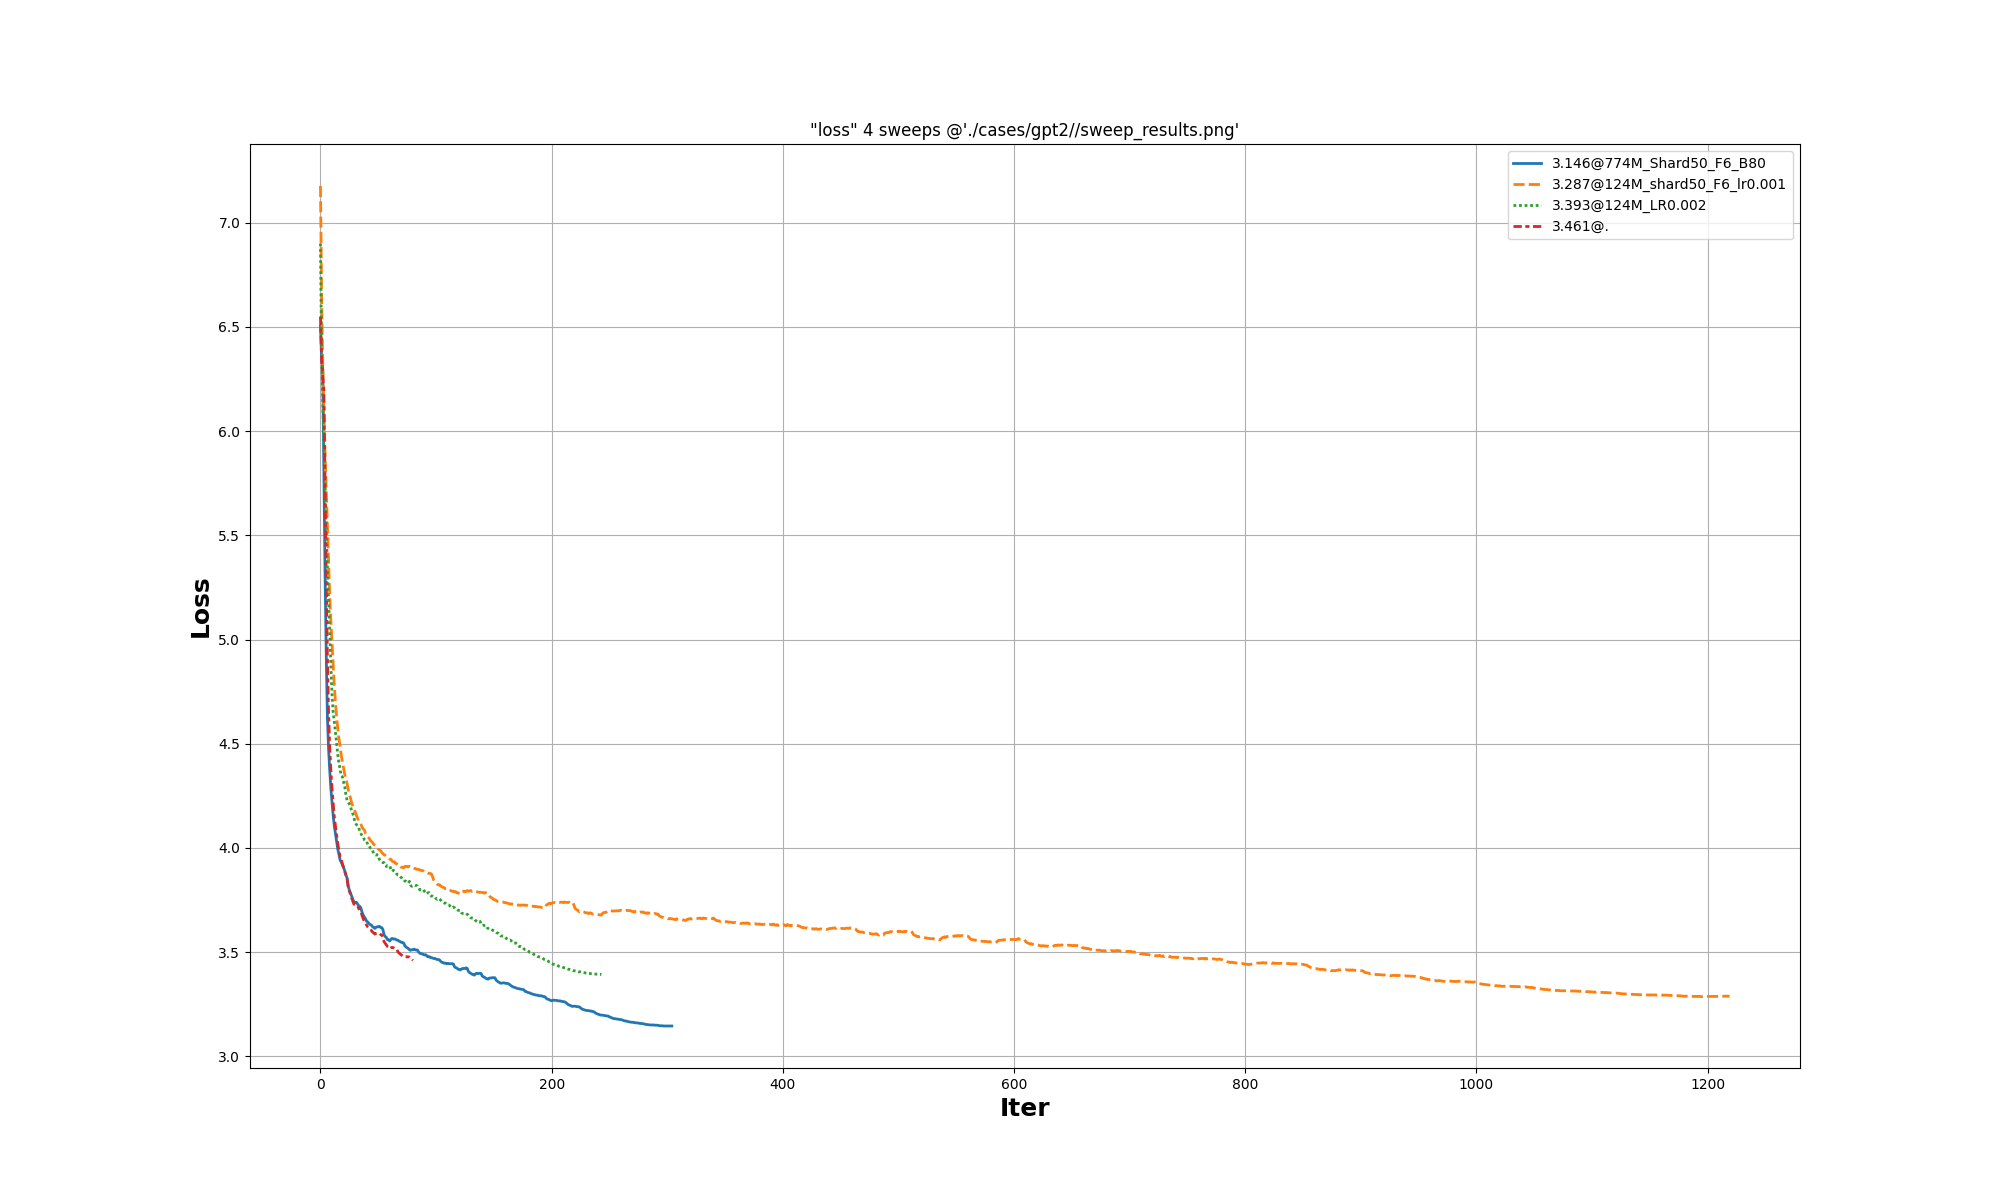
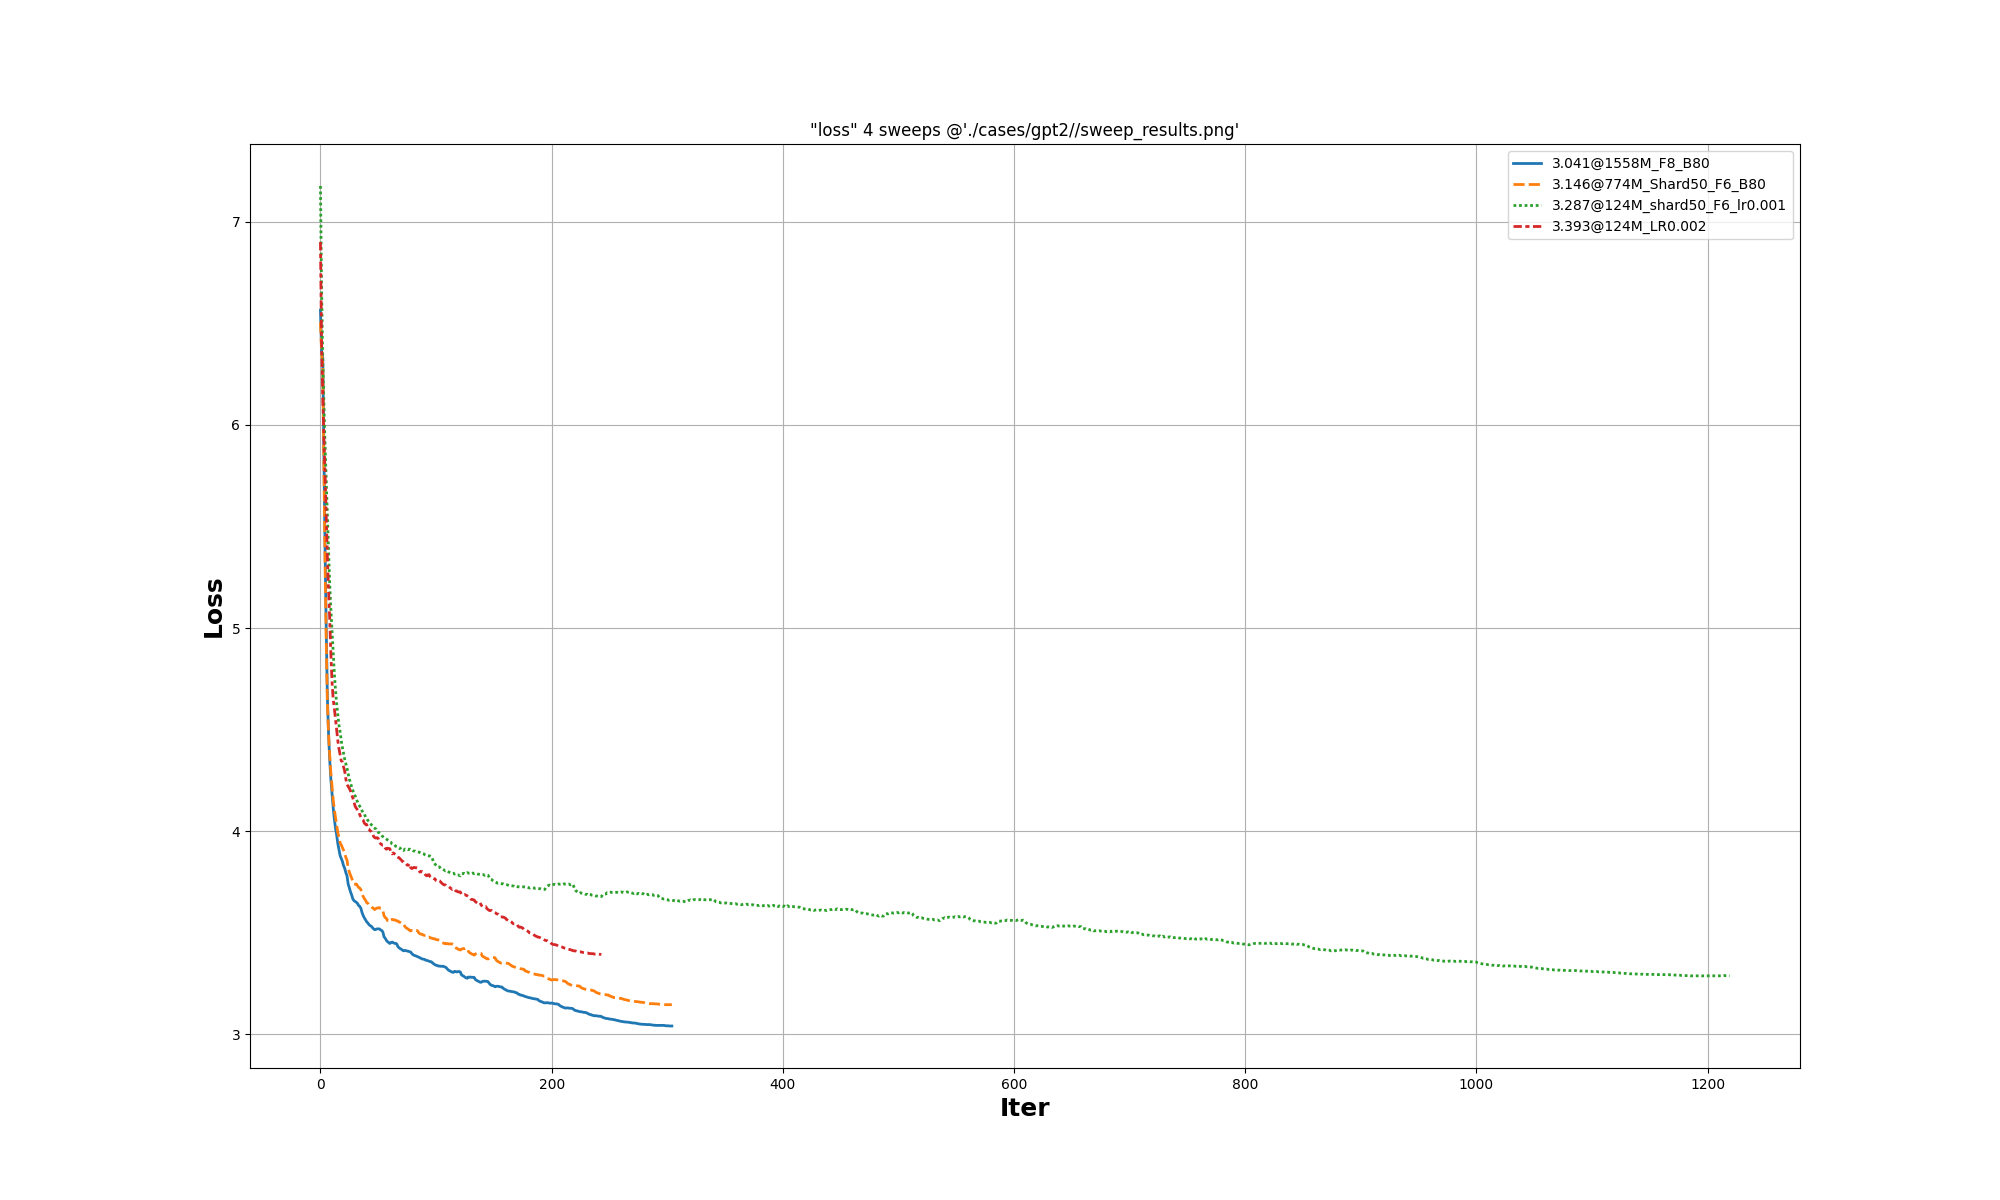
dumpSwitch

diff --git a/src/Utils/GST_util.cpp b/src/Utils/GST_util.cpp
@@ -46,15 +46,16 @@ void _TIME_INFO(const string &info, double fmillis, int flag) {
         _INFO("%02lld:%02lld:%02lld", (long long int)hours, (long long int)minutes, (long long int)seconds);
 }
 
+int SUM::nMostMemItem;
 double SUM::tX = 0.0, SUM::tX1 = 0.0, SUM::tRemater = 0.0;
 size_t SUM::szUpload = 0;
-double SUM::tQKV = 0.0, SUM::tFFN = 0.0, SUM::tUpload = 0.0;
+double SUM::tQKV = 0.0, SUM::tFFN = 0.0, SUM::tUpload = 0.0, SUM::tData = 0.0;
 double SUM::tLoadData = 0.0, SUM::tLoadParam = 0.0, SUM::tEval_1 = 0.0, SUM::tEval_0 = 0.0;
 int SUM::nInitParam = 0, SUM::nSaveParam = 0, SUM::nLoadParam = 0, SUM::nDogLeg = 0;
 std::vector<MEM_USAGE> SUM::mems;
 
 size_t MEM_USAGE::szA = 0, MEM_USAGE::szW = 0, MEM_USAGE::szG = 0, MEM_USAGE::szMoment = 0, MEM_USAGE::szTemp = 0, MEM_USAGE::szOther = 0;
-MEM_USAGE::MEM_USAGE(size_t sz_, string d_, void *hData_, int flag) : sz(sz_), desc(d_),hData(hData_) {
+MEM_USAGE::MEM_USAGE(size_t sz_, string d_, void *hData_, int flag) : sz(sz_), desc(d_), hData(hData_) {
     char last = desc[desc.length() - 1];
     switch (last) {
         case 'a':
@@ -78,7 +79,7 @@ MEM_USAGE::MEM_USAGE(size_t sz_, string d_, void *hData_, int flag) : sz(sz_), d
             type = TYPE::TEMP, szTemp += sz;
             break;
         default:
-            type = TYPE::OTHER, szA += sz;
+            type = TYPE::OTHER, szOther += sz;
             ;
             break;
     }
@@ -94,18 +95,22 @@ void SUM::Reset(string typ, int flag) {
         mems.clear();
     }
 }
-void SUM::TimeInfo(int flag) {
+void SUM::TimeInfo(int type, int flag) {
+    if (type <= 0)
+        return;
     // _TIME_INFO(" R=",SUM::tRemater);
+    _TIME_INFO("(data=", tData);
     _TIME_INFO(" QKV=", tQKV);
     _TIME_INFO(" FFN=", tFFN);
     if (tX1 > 0)
         _TIME_INFO(" X=", tX1);
+    _INFO(")");
 }
 
-bool SUM::FreeMem(void *hObj,int flag){
-    int id=0;
-    for(auto mem:mems){
-        if(mem.hData == hObj){
+bool SUM::FreeMem(void *hObj, int flag) {
+    int id = 0;
+    for (auto mem : mems) {
+        if (mem.hData == hObj) {
             mems.erase(mems.begin() + id);
             return true;
         }
@@ -114,22 +119,38 @@ bool SUM::FreeMem(void *hObj,int flag){
     assert(0 && "SUM::FreeMem failed");
     return false;
 }
+/**
+ * 1. cudaMemGetInfo reports:
+        Memory allocated by your program (via cudaMalloc, cudaMemcpy, etc.).
+        Additional memory reserved by the CUDA runtime (e.g., for kernels, libraries like cuBLAS).
+        Example: If your app allocates 500MB, cudaMemGetInfo might report 600MB due to overhead.
+    2. nvidia-smi reports:
+        Actual physical memory in use by all processes (including other CUDA apps, graphics compositors, etc.).
+        Excludes reserved but unused memory (e.g., fragmentation, CUDA context pools)
+
+*/
 void SUM::MemoryInfo(int type, int flag) {
+    size_t sz0, sz1;
+    cudaError_t err = cudaMemGetInfo(&sz0, &sz1);
     std::sort(mems.begin(), mems.end(),  // ugly because we don't have a typedef for the std::pair
               [](const MEM_USAGE &a, const MEM_USAGE &b) { return a.sz > b.sz; });
-    size_t szTotal = 0, i = 0;
+    size_t szNow = 0, i = 0, szFree = 0;
+    double mUsed = (sz1 - sz0) / 1.0e6;
     for (auto mem : mems) {
-        szTotal += mem.sz;
+        szNow += mem.sz;
     }
-    _INFO("%ld mem-blocks \tTotal=%.3gG activation=%.5gM weight=%.5gM grad=%.5gM moments=%.5gM temp=%.5gM other=%.5gM\n", mems.size(), szTotal / 1.0e9,
-          MEM_USAGE::szA / 1.0e6, MEM_USAGE::szW / 1.0e6, MEM_USAGE::szG / 1.0e6, MEM_USAGE::szMoment / 1.0e6, MEM_USAGE::szTemp / 1.0e6,
-          MEM_USAGE::szOther / 1.0e6);
-    if (1) {  // decsend by memory size
-        szTotal = 0;
+    szFree = MEM_USAGE::szA + MEM_USAGE::szW + MEM_USAGE::szG + MEM_USAGE::szMoment + MEM_USAGE::szTemp + MEM_USAGE::szOther - szNow;
+    _INFO(
+        "[MEMORY] Current usage statistics:  %ld mem-blocks sum=%.3gG(%.3gG) \n\tactivation=%.5gM weight=%.5gM grad=%.5gM moments=%.5gM temp=%.5gM "
+        "other=%.5gM\n",
+        mems.size(), szNow / 1.0e9, szFree / 1.0e9, MEM_USAGE::szA / 1.0e6, MEM_USAGE::szW / 1.0e6, MEM_USAGE::szG / 1.0e6, MEM_USAGE::szMoment / 1.0e6,
+        MEM_USAGE::szTemp / 1.0e6, MEM_USAGE::szOther / 1.0e6);
+    if (nMostMemItem > 0) {  // decsend by memory size
+        size_t szTotal = 0;
         for (auto mem : mems) {
             szTotal += mem.sz;
             _INFO("\t%ld\t%6gM  @%s \t%.3gG\n", i++, mem.sz / 1.0e6, mem.desc.c_str(), szTotal / 1.0e9);
-            if (i > 100)
+            if (i > nMostMemItem)
                 break;
         }
         _INFO("\n");
@@ -234,7 +255,10 @@ std::string FILE_EXT(const std::string &path) {
     return sExt;
 }
 
-const char *GRUAI_KOIFISH_APP_NAME = "Koifish-alpha";
+/**
+ *  v0.1    20250918
+ */
+const char *GRUAI_KOIFISH_APP_NAME = "Koifish-v0.1";
 void GRUAI_KOIFISH_VERSION(char *str, int flag = 0x0) {
     char sName[80] = "\0";
     int i, nLen = (int)strlen(GRUAI_KOIFISH_APP_NAME), nFrame = 68, off;

diff --git a/cases/PlotSweep.py b/cases/PlotSweep.py
@@ -144,7 +144,7 @@ def SWEEP_plt(all_results,path,yCol='loss'):
     plt_df(df,title = f"\"{yCol}\" {nResult} sweeps @'{path}'",path=path)
 
 # 
-def GetAllPlotPath(root_dir,append_pwd):
+def GetAllPlotPath(root_dir,append_dir):
     all_path = []
     for root, dirs, files in os.walk(root_dir):
         for cur_dir in dirs:
@@ -153,15 +153,15 @@ def GetAllPlotPath(root_dir,append_pwd):
             all_path.append(cur_path)
     if len(all_path)==0:
         all_path.append(root_dir)
-    if append_pwd:
-        all_path.append(".")
-        # all_path.append("./SWEEP/tmp/")
+    if append_dir:
+        all_path.append(append_dir)
+
     # all_path = ["./SWEEP/tmp/"]
     return all_path
 
-def SWEEP_stat(root_dir,plot_path,append_pwd=True,isNeedLog=False):
+def SWEEP_stat(root_dir,plot_path,append_dir=None,isNeedLog=False):
     all_results = []
-    all_path = GetAllPlotPath(root_dir,append_pwd)
+    all_path = GetAllPlotPath(root_dir,append_dir)
     for cur_path in all_path:
         title = cur_path if cur_path=="." else Path(cur_path).name
         jConfig = None; fLog=None;  dfTrain=None;  dfEval=None
@@ -183,15 +183,16 @@ def SWEEP_stat(root_dir,plot_path,append_pwd=True,isNeedLog=False):
                 else:
                     dfEval = pd.read_csv(f, sep=' ',index_col=False)        
                     # print(dfEval)    
-        if dfTrain is None or dfEval is None:
+        if dfEval is None:  #dfTrain is None or
             continue   
         if isNeedLog and fLog is None:
             continue
-        print(f"dfTrain shape={dfTrain.shape} head = {dfTrain.head()}\n loss={dfTrain["loss"]}")    
+        # print(f"dfTrain shape={dfTrain.shape} head = {dfTrain.head()}\n loss={dfTrain["loss"]}")    
         result = SWEEP_result(title, cur_path, jConfig,dfTrain,dfEval,fLog)
         all_results.append(result)
         # SWEEP_plt(all_results,plot_path)
     assert(len(all_results)>0)
+    print(*all_results)
     yCol='loss'     #   loss  lr max_|G|  max_|W| gNorm
     SWEEP_plt(all_results,plot_path,yCol=yCol)
     pass
@@ -213,11 +214,12 @@ if __name__ == '__main__':
     parser = argparse.ArgumentParser()
     parser.add_argument("--dir", type=str, help="log path of sweep test")
     parser.add_argument("--csv", type=str, help="log path of single csv file")
+    parser.add_argument("--x_dir", type=str)
     parser.add_argument("--x", action='store_false') 
     # parser.add_argument("--stat", action='store_true')    
     args = parser.parse_args()
     if args.dir:
-        SWEEP_stat(args.dir,args.dir+"/sweep_results.png",append_pwd=args.x)
+        SWEEP_stat(args.dir,args.dir+"/sweep_results.png",append_dir=args.x_dir)
     elif args.csv:
         Plot_csv(args.csv)
     exit()    

diff --git a/src/CLI_params.hpp b/src/CLI_params.hpp
@@ -276,19 +276,19 @@ struct ADAM_params_ {
 
 struct MUON_params_ {
     size_t n_parameters;
-    enum Orthogonalization{
+    enum Orthogonalization {
         NewtonSchulz,
-        Chebyshev       //  https://github.com/GrishKate/accelerating_orthogonalization
+        Chebyshev  //  https://github.com/GrishKate/accelerating_orthogonalization
 
     };
     Orthogonalization tpOrthogonal = NewtonSchulz;
     MUON_params_();
-    bool isNesterov = true;
+    bool isNesterov  = true;
     bool isTransDown = true;
-    bool isAdamW(void *hUserData, int flag=0x0);
-    float lr_scale = 50.f;  //100.f 50.f?
+    bool isAdamW(void* hUserData, int flag = 0x0);
+    float lr_scale = 50.f;  // 100.f 50.f?
     //  torch:  self←self+λ⋅(b−self)          lerp(a, b, λ):  a+λ*(b-a)
-    float mui      = 0.95;  
+    float mui      = 0.95;
     float eps      = 1e-7f;  // epsilon for numerical stability
     float eps_loss = 1e-5f;  // epsilon for convergence test
     int ldAB       = 0;
@@ -346,6 +346,11 @@ struct TRAIN_CARD {
     bool Init(CLI_params* hConfig, const JSON& jConfig, int flag = 0x0);
 };
 
+struct DUMP_SWITCH {
+    int tensor_ref = 0;
+    int train_time = 0;
+};
+
 struct DEUG_SWITCH {
     int SelfAttention_noraml = 1;
     bool NO_loss             = false;
@@ -354,7 +359,7 @@ struct DEUG_SWITCH {
     int algCuX2              = 0;
 
     int dict_latent_dim    = -1;
-    int graph_dump         = 0;  //  10 levels of dumps, 0-9. 0 is a full dump,The lower the number the more dump.
+    int graph_dump         = 0;  //  10 levels of dumps, 0-9. 0 is a full dump_,The lower the number the more dump_.
     int train_hyperparams  = 0;
     int train_datas        = 0;
     int back_graph_version = 0;
@@ -385,6 +390,7 @@ struct CLI_params {
         int save_every = -1;
     };
     CheckPoint checkpoint;
+    DUMP_SWITCH dumpSwitch;
 
     struct DataTypes {
         std::vector<std::string> arrTernary;

diff --git a/src/Manifold/Optimizer.cpp b/src/Manifold/Optimizer.cpp
@@ -38,7 +38,7 @@ Optimizer::Optimizer(NLP_AutoRegressive *g_, CLI_params &config, int flag) : _fi
                        : method == "hsgd"  ? SGD_HYBRID
                        : method == "lion"  ? LION
                        : method == "muon"  ? MUON
-                                           : ADAM_spike;
+                                           : ADAMw;
         nGradAccum   = std::max(1, train_params.n_gradient_accumulation);
         isGlobalGrad = nGradAccum > 1;  // Nearly same alloc grad or not
         train_loader = std::make_shared<SampLoader>(_fish, "Train", false);
@@ -157,7 +157,7 @@ bool Optimizer::BatchGrad(int iter, float &fx, int flag) {
         auto now = GST_ms();
         if (hRLS->isUpdateBatch(GetITER())) {
             int64_t nSamp = train_loader->UpdateBatch(-1, _fish);
-            tData         = GST_ms() - now;
+            SUM::tData         = GST_ms() - now;
             if (nSamp == 0) {
                 _WARN("<%s> Failed to get next batch!!!\n", __func__);
                 return false;
@@ -773,9 +773,9 @@ float Optimizer::UpdateLossCurve(int flag) {
         _INFO("[epoch_%d]_%-6d loss=%f |g|=%.3g\tlr=%.2e | %s ", train_epochs, iter, loss_after, g_step, last_lr,
               train_loader->IterInfo().c_str());  //,zmuv_0,zmuv_1
         if (millis_per_iter > 0) {
-            _TIME_INFO(" T=", millis_per_iter), _TIME_INFO("(data=", tData);
-            SUM::TimeInfo();  // _TIME_INFO(" R=",SUM::tRemater);
-            _TIME_INFO(") eta=", remaining_millis);
+            _TIME_INFO(" T=", millis_per_iter);            
+            SUM::TimeInfo(_fish->config.dumpSwitch.train_time);  
+            _TIME_INFO(" eta=", remaining_millis);
         }
         size_t tokens_processed = _fish->config.nTokensPerGrad();  //(size_t) * B * T * grad_accum_steps;
         float tokens_per_second = tokens_processed / millis_per_iter * 1000.0f;

diff --git a/src/Tensor/GTensor.cpp b/src/Tensor/GTensor.cpp
@@ -139,7 +139,8 @@ void GTensor::SetRefer(hGTensor hR, int flag) {
     hRef = hR;
     hR->refered.push_back(this);
     type = hRef->type;
-    _INFO("\t%s =====> %s\n", name, hR->name);
+    if(hFish->config.dumpSwitch.tensor_ref>0)
+        _INFO("\t%s =====> %s\n", name, hR->name);
 }
 
 bool GTensor::SetTernary(typNUMBER tpT_, int flag) {
@@ -609,7 +610,8 @@ bool huTensor::Alloc(int iter, int flagInit) {
     if (hRef != nullptr) {  // Activation or Parameters
         // if (DUMP(0))
         if (BIT_TEST(flags, GTensor::F_RELOAD)) {
-            _INFO("\t%s =====> %s\n", name, hRef->name);
+            if(hFish->config.dumpSwitch.tensor_ref>0)
+                _INFO("\t%s =====> %s\n", name, hRef->name);
         } else {
             ShareMemory(hRef);  //  grad => src->grad;
             return true;

diff --git a/src/Utils/GST_util.hpp b/src/Utils/GST_util.hpp
@@ -160,12 +160,13 @@ struct MEM_USAGE {
     MEM_USAGE(size_t sz_, string d_, void *hData = nullptr, int flag = 0x0);
 };
 struct SUM {
+    static int nMostMemItem;
     static std::vector<MEM_USAGE> mems;
     static int nInitParam,nSaveParam,nLoadParam,nDogLeg;
-    static double tX, tX1, tRemater, tQKV, tFFN, tUpload, tLoadData, tLoadParam, tEval_0, tEval_1;
+    static double tX, tX1, tData, tRemater, tQKV, tFFN, tUpload, tLoadData, tLoadParam, tEval_0, tEval_1;
     static size_t szUpload;
     static void Reset(string typ, int flag = 0x0);
-    static void TimeInfo(int flag = 0x0);
+    static void TimeInfo(int typ, int flag = 0x0);
     static void MemoryInfo(int type, int flag = 0x0);
     static bool FreeMem(void *hData,int flag=0x0);
 };

diff --git a/src/ggex/GG_util.cpp b/src/ggex/GG_util.cpp
@@ -877,6 +877,10 @@ bool CLI_params::InitJConfig(int flag) {
         DEBUG.x1         = jKV(jConfig, {"debug", "x"}, DEBUG.x1);
         DEBUG.x_str      = jKV(jConfig, {"debug", "x_str"}, DEBUG.x_str);
         DEBUG.N_mostiter = jKV(jConfig, {"debug", "most_iter"}, DEBUG.N_mostiter);
+
+        SUM::nMostMemItem = jKV(jConfig, {"dump", "most_mem_item"}, SUM::nMostMemItem);
+
+        dumpSwitch.train_time = jKV(jConfig, {"dump", "train_time"}, dumpSwitch.train_time);
         // train = jKV(jConfig,{"train"},train );
         return true;
     } catch (JSON::parse_error &e) {

diff --git a/src/Manifold/Optimizer.hpp b/src/Manifold/Optimizer.hpp
@@ -66,7 +66,7 @@ class Optimizer : public std::enable_shared_from_this<Optimizer> {
     float loss_before = 0, loss_after = 0, tokens_per_second = 0, ema_tps = 0, last_lr = 0;
     int first_epoch = 0, iter_at_last_epoch = -1, first_iter = -1, iter = -1;
     uint64_t train_its = 0, train_samples = 0, train_tokens = 0, train_epochs = 0, max_epoch = 0;
-    double last_time, tData, tUpdate;
+    double last_time, tUpdate;
     double millis_per_iter          = 0;
     std::vector<string> adam_filter = {"output", "norm"};  //{"token_embd","output","norm"};
 

diff --git a/src/Manifold/gLLM.cpp b/src/Manifold/gLLM.cpp
@@ -724,7 +724,7 @@ void NLP_AutoRegressive::InitModel(int flag) {
     } else {
     }
 
-    _INFO("\nLLaMeta%s: init model embed=%d layer=%d ff=%d tpFFN=%d\n", __func__, n_embd, n_layer, n_ff, tpFFN);
+    _INFO("\n Init model embed=%d layer=%d ff=%d tpFFN=%d\n", n_embd, n_layer, n_ff, tpFFN);
     _INFO("\t type of FFN=%s\n", tpFFN == FFN_TYPE::SWIGLU           ? "MLP"
                                  : tpFFN == FFN_TYPE::VAR_LAST       ? "Variation@last_layer"
                                  : tpFFN == FFN_TYPE::ONLY_RMSNormal ? "RMS Normal"

diff --git a/cases/SweepHyParams.py b/cases/SweepHyParams.py
@@ -117,10 +117,10 @@ if __name__ == '__main__':
     
     # batch_size = [200,160,40,80,120]
     #   cross_over=[0.6,0.4,0.2,0.1]
-    branches = [6,2]     #48
+    branches = [6,9]     #48
     lrs =[0.0006]    #[0.002,0.001,0.0006,0.0002]
     lr = 0.0006
-    no = 0;     batchs = [40,80]   
+    no = 0;     batchs = [80,40]   
     for branch in branches:        
         for b in batchs:
             title = "F"+ str(branch)  + "_B" + str(b)      #+ "_crossover"+ str(cross)

diff --git a/src/ggex/GG_util.hpp b/src/ggex/GG_util.hpp
@@ -98,7 +98,7 @@ enum GD_METHOD {
     ADAM_MINI,          //  https://arxiv.org/pdf/2406.16793
     ADAM_S,             //  https://arxiv.org/pdf/2505.16363
     ADAM_GALORE, 
-    ADAM_spike, 
+    // ADAM_spike, 
     MUON,
     // ADAMw_cuda,
 };

diff --git a/README.md b/README.md
@@ -4,14 +4,15 @@ Sparse & quantized LLM training in C++/cu.
 
 Koifish needs much less training resource than other frameworks. It needs only one day to train ~2B model on single 4090 as shown in the following table.
 
-| Model | Parameter  | Loss(Baseline) |GPU Memory|Training Time|Throughput|
-|:-------------:|:--------------:|:--------------:|:--------------:|:--------------:|:--------------:|
-| GPT2-124M         | 124M           | 3.287(3.425)  | ~6.8G   |~8 hours|~140k/s|
-| GPT2-774M         | 774M           | 3.146(3.00)   | ~15G |~18 hours|~70k/s|
-| GPT2-1558M         | 1558M           | 3.04(2.83)   | ~23G   |~30 hours|~50k/s|
+| Model | Parameter  | Loss(Baseline) |GPU Memory|Total Time (Training+Evaluating)|Throughput|Log|
+|:-------------:|:--------------:|:--------------:|:--------------:|:--------------:|:--------------:|:--------------:|
+| GPT2-124M         | 124M           | 3.287(3.425)  | ~6.8G   |~8 hours|~140k/s|[log](cases/gpt2/124M_shard50_F6_lr0.001)|
+| GPT2-774M         | 774M           | 3.146(3.00)   | ~15G |~18 hours|~70k/s|[log](cases/gpt2/774M_Shard50_F6_B80)|
+| GPT2-1558M         | 1558M           | 3.04(2.83)   | ~23G   |~30 hours|~50k/s|[log](cases/gpt2/1558M_F8_B80)|
 
 Note
-1. The baseline results are from [GPT2](https://github.com/openai/gpt-2), which are trained with 10 billion tokens of FineWeb. Our training only used 5B tokens of FineWeb.   
+1. The baseline results are from [GPT2](https://github.com/openai/gpt-2). Our training only used 5B tokens of FineWeb.   
+2. The evaluating time depends on the frequency of testing and the sampling ratio(We use only ~10% randomely sampled tokens to reduce total time). 
 
 ## Features
 - Hybrid 16/8/1 bit training
@@ -41,8 +42,8 @@ make clean && make VERBOSE=TRUE
 
 ## Tutorial
 
-1.    [Training of GPT2_1558M_ on single 4090](cases/tutorial_gpt2_1558M.md)
-1.    [Training of GPT2(774M/124M) on single 3090](cases/tutorial_gpt2.md)
+1.    [Training of GPT2_1558M_ on single 4090](cases/tutorial/tutorial_gpt2_1558M.md)
+1.    [Training of GPT2(774M/124M) on single 3090](cases/tutorial/tutorial_gpt2.md)
 
 ## [Techniques/Tricks](cases/tricks/Tricks.md)
 
